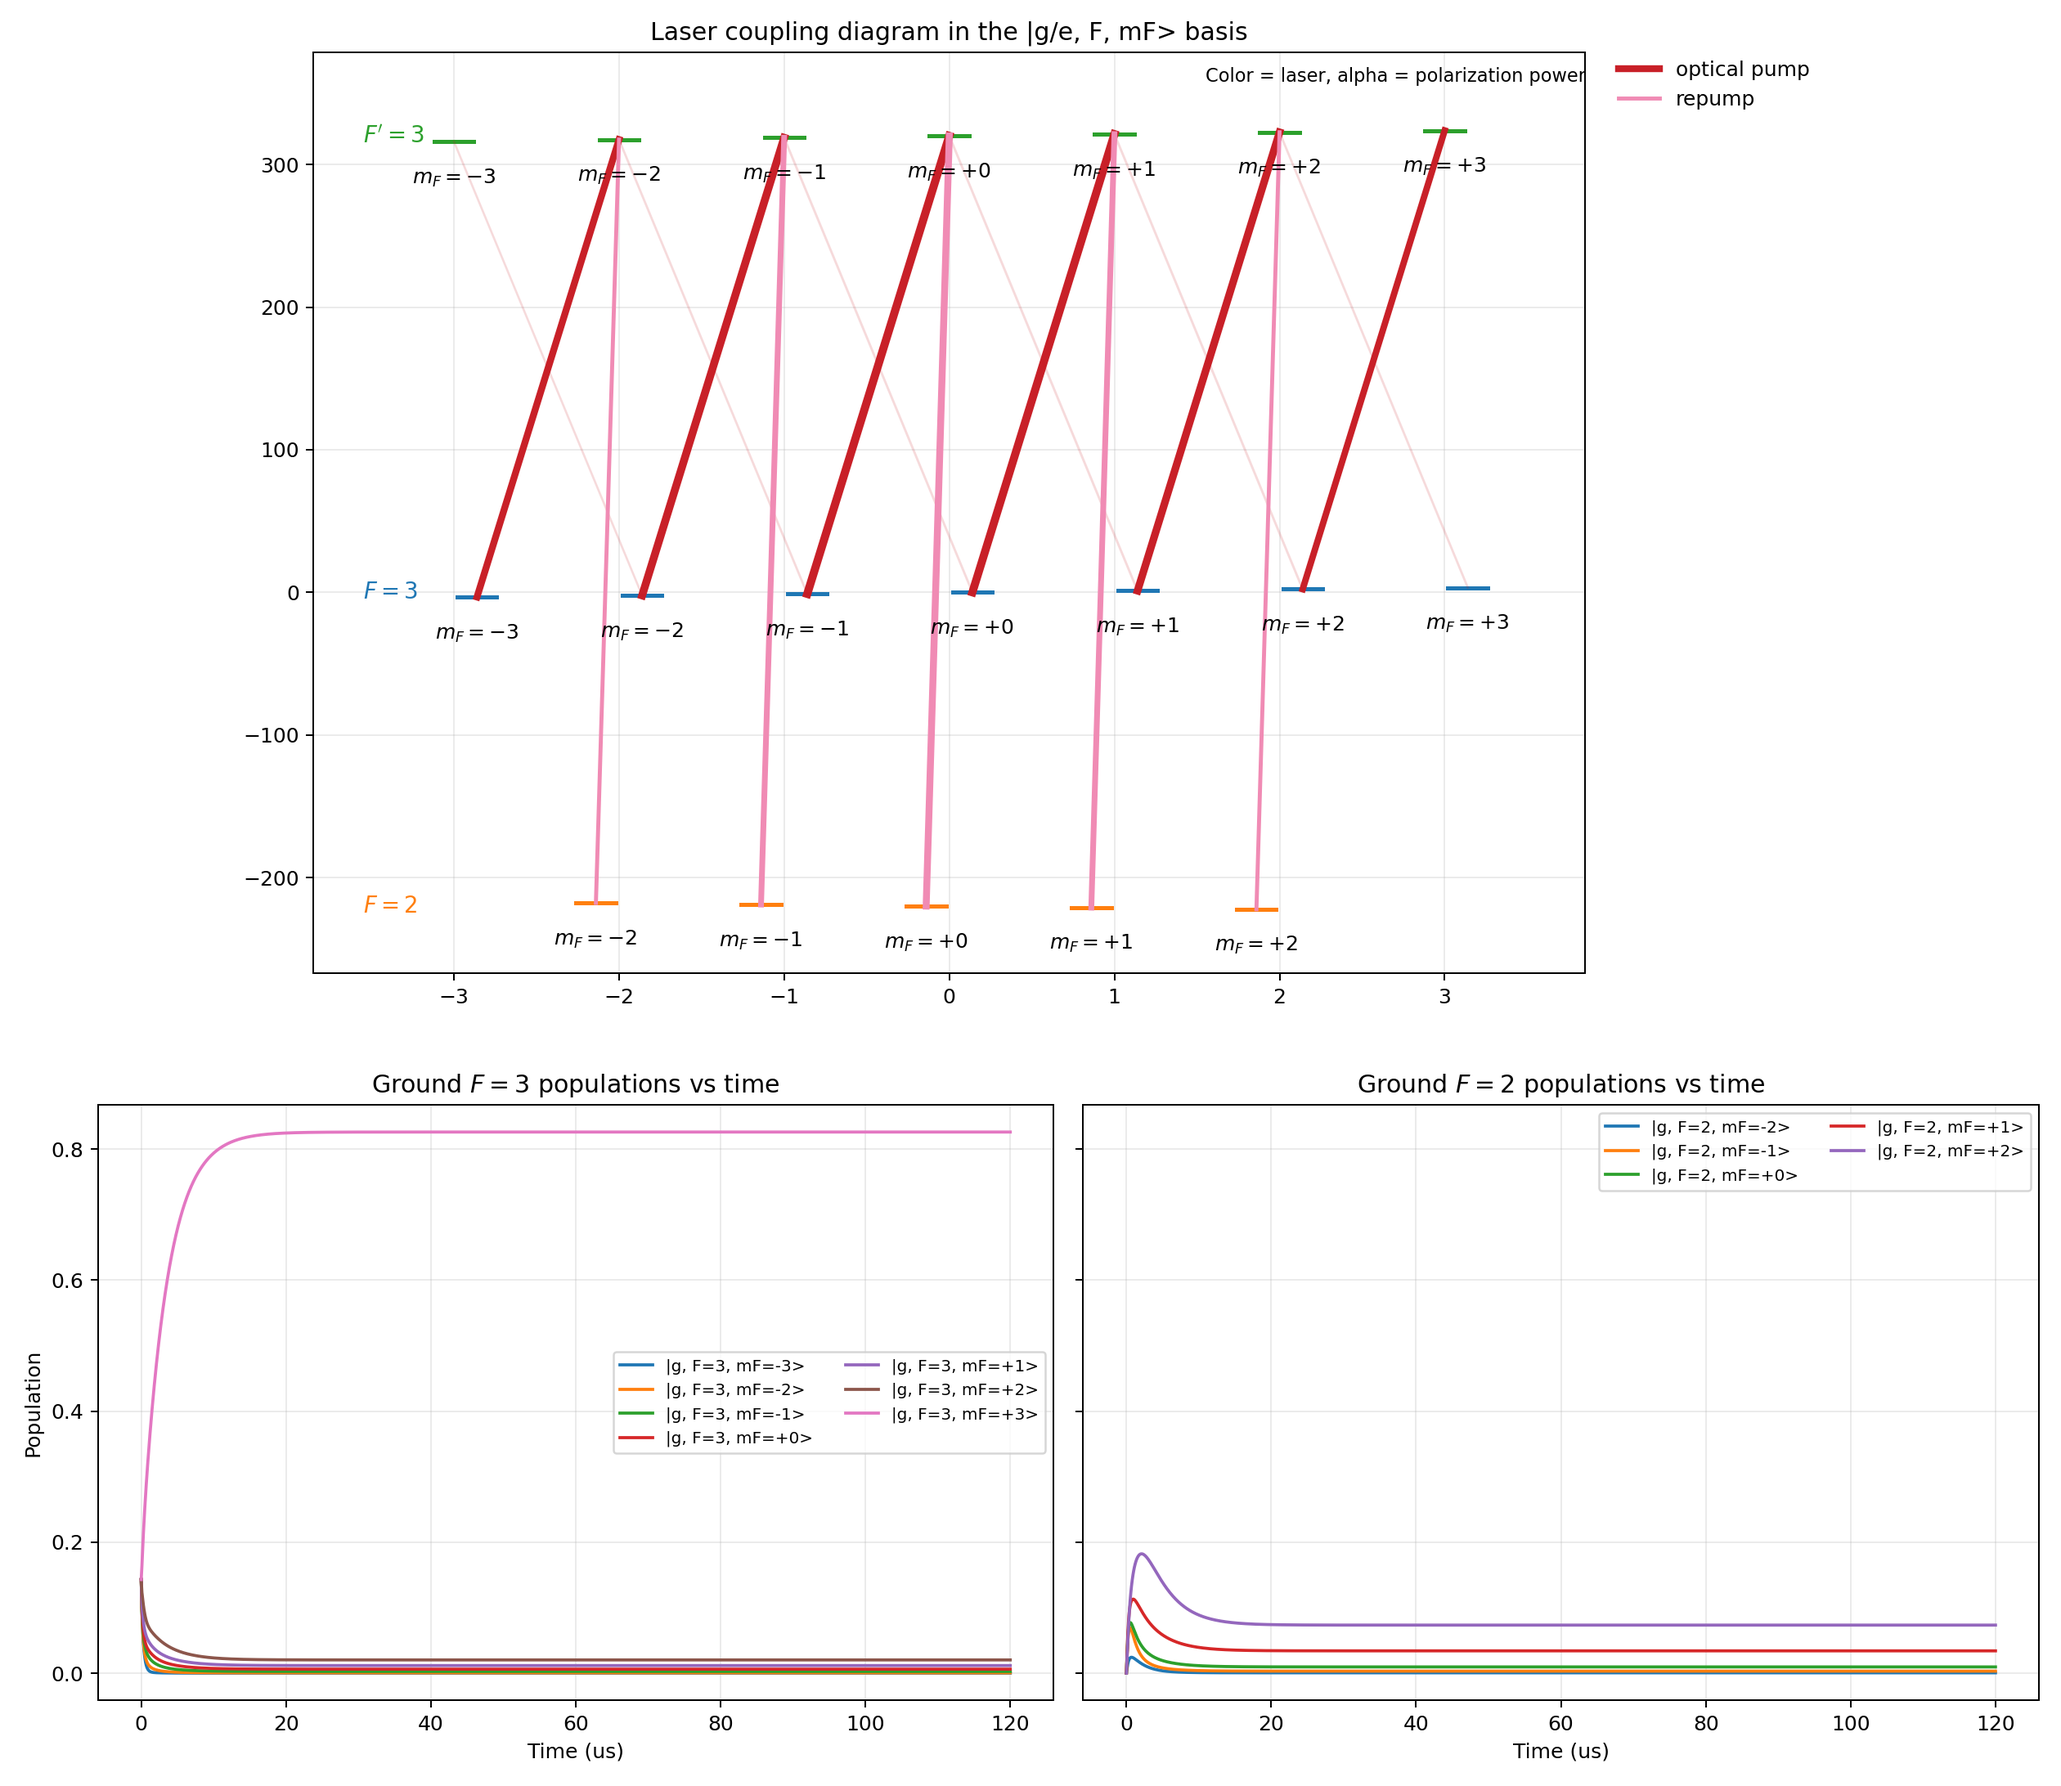
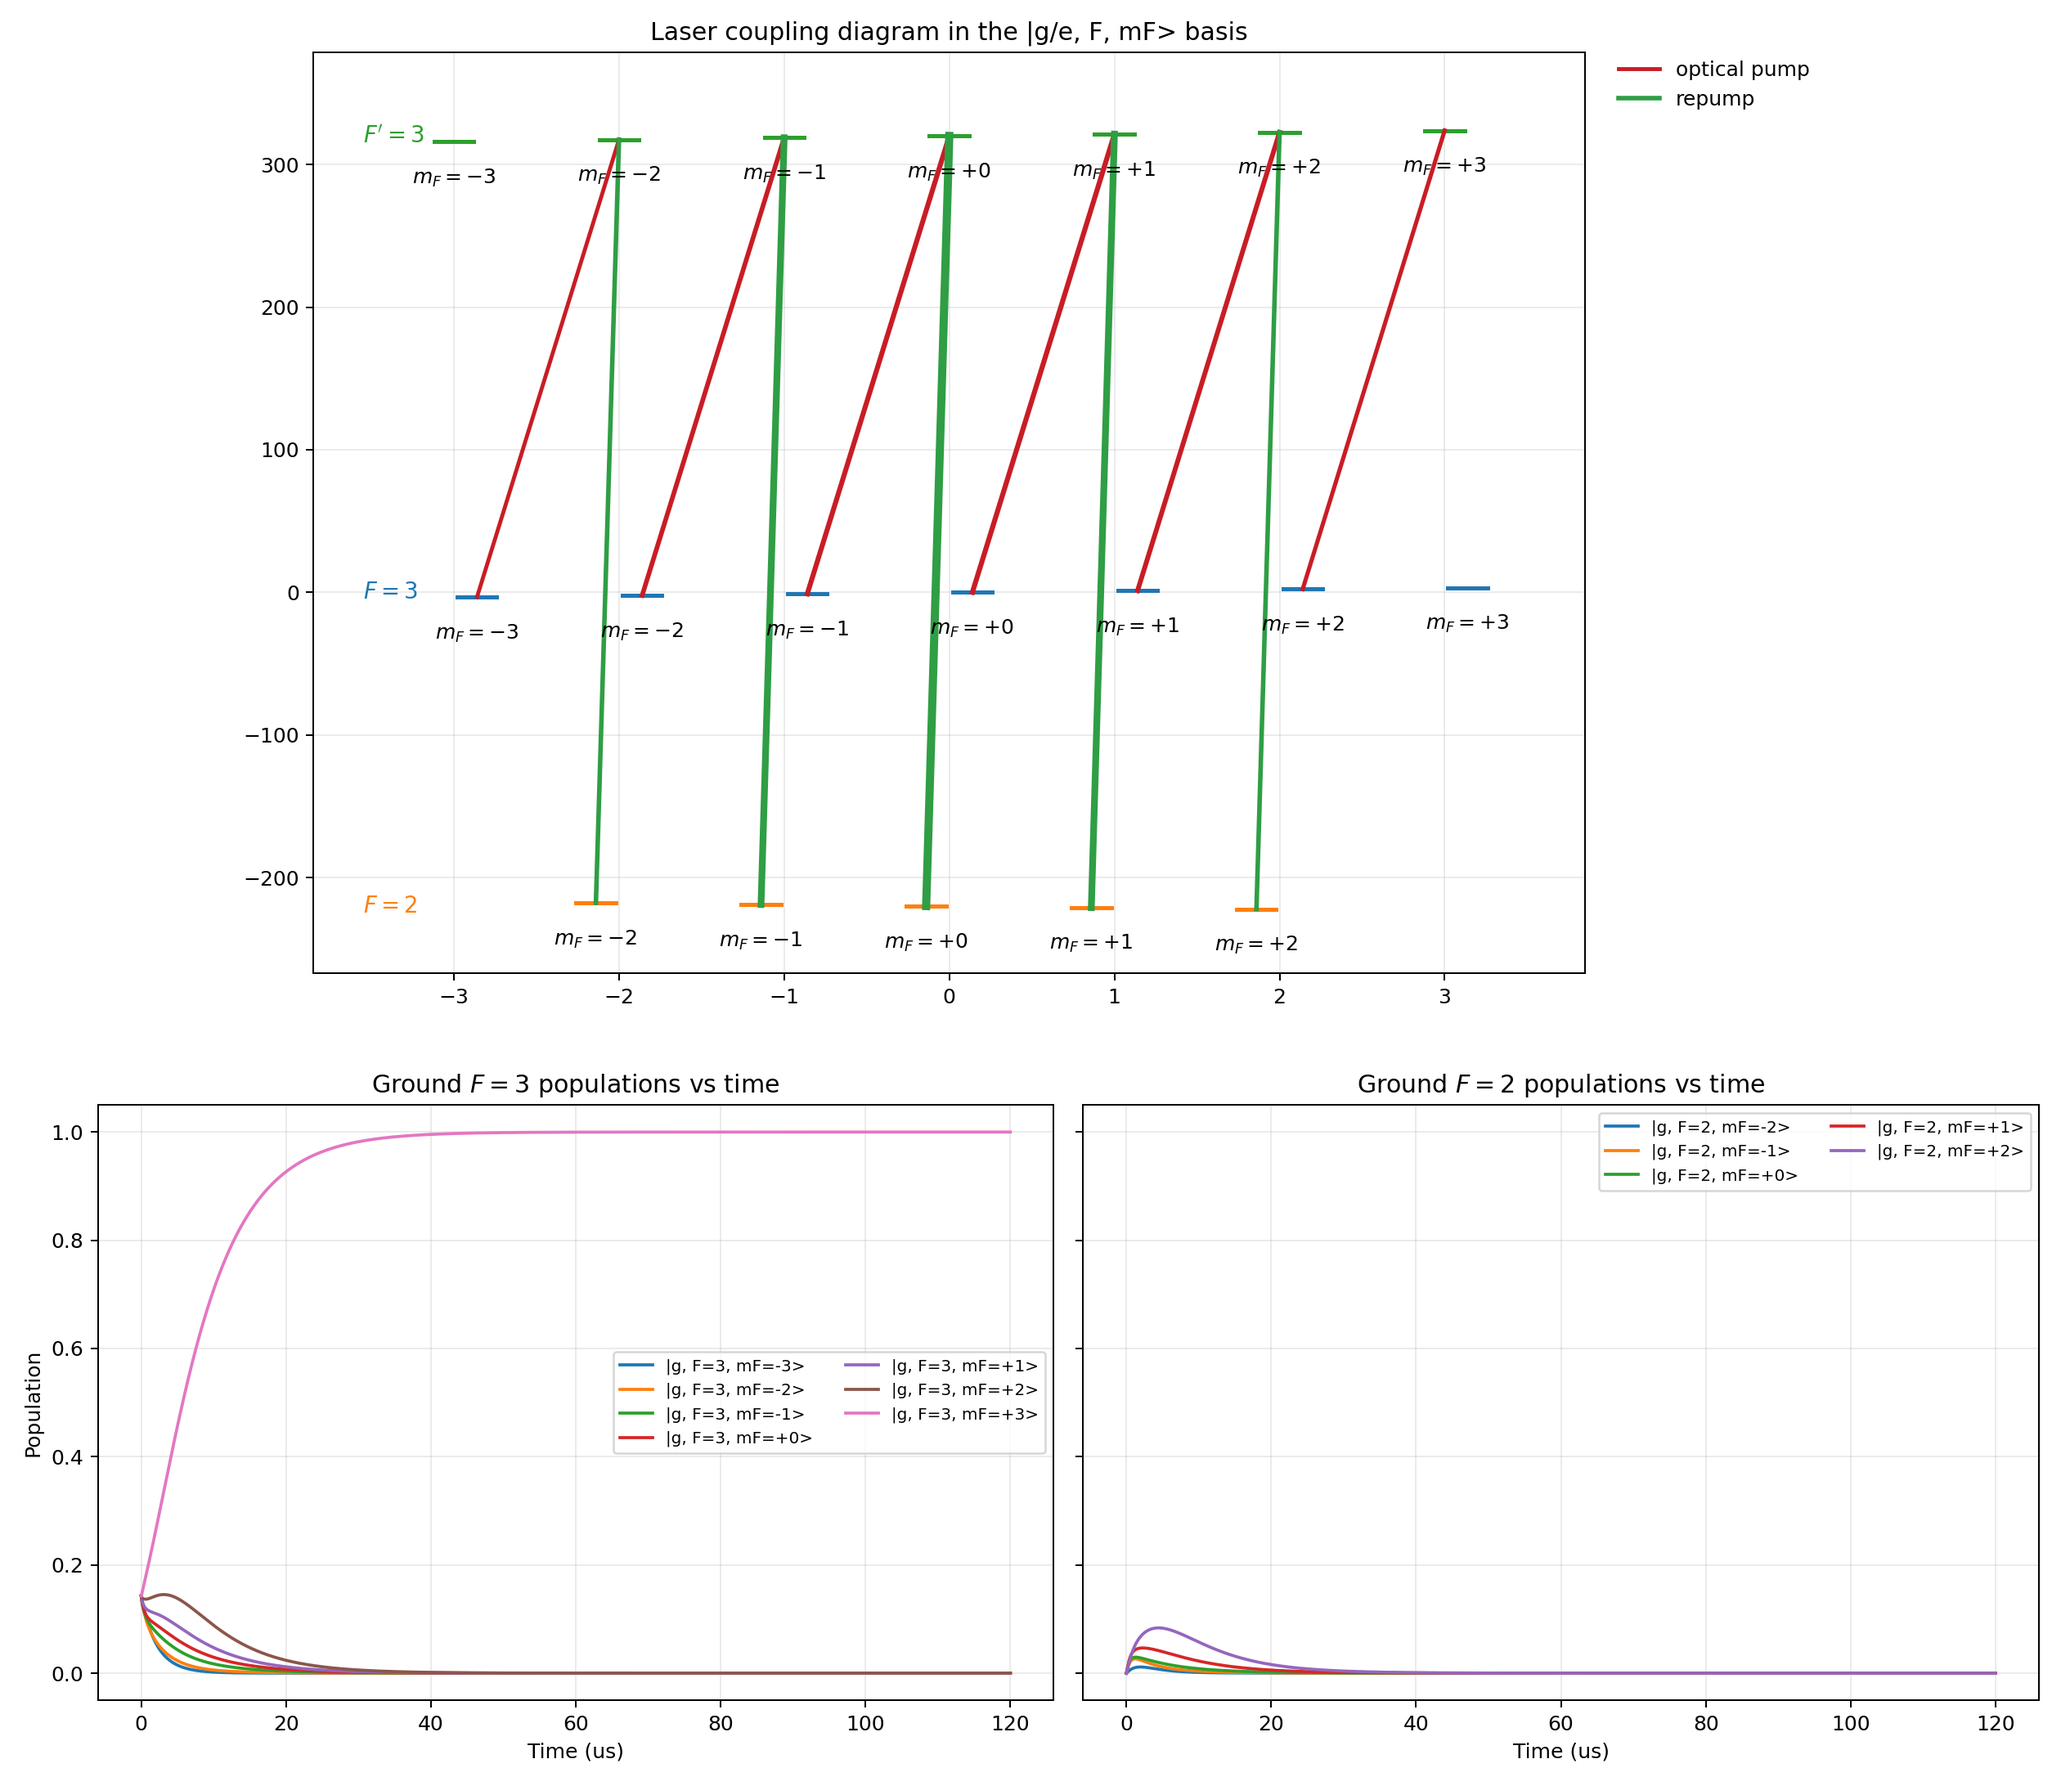
working good

diff --git a/rate-calcs.py b/rate-calcs.py
@@ -17,6 +17,8 @@ CPT, EIT, and other interference effects are not captured here.
 
 from __future__ import annotations
 
+import io
+from contextlib import redirect_stdout
 from dataclasses import dataclass
 from functools import lru_cache
 from typing import Dict, Iterable, List, Sequence, Tuple
@@ -36,10 +38,10 @@ MHz = 2.0 * np.pi * 1.0e6  # angular frequency units
 Gauss = 1.0e-4  # Tesla
 
 SIMULATION_CONFIG = {
-    "detuning_op": 0.0 * MHz,
+    "detuning_op": 0 * MHz,
     "detuning_rp": 0.0 * MHz,
     "intensity_op": 1.0,
-    "intensity_rp": 0.5,
+    "intensity_rp": 1.0,
     "B_field": 2.35 * Gauss,
     "total_time": 120.0e-6,
     "num_time_points": 1200,
@@ -50,15 +52,16 @@ SIMULATION_CONFIG = {
     "show_plots": False,
     "save_plots": True,
     "output_filename": "output.png",
+    "detailed_output_filename": "detailed_output.md",
 }
 
 # Polarization amplitudes may be real or complex. The code uses |epsilon_q|^2
 # and normalizes the three components so the listed laser intensity is the total
 # intensity for that beam.
 OPTICAL_PUMP_POLARIZATION = {
-    "epsilon_plus": 0.9 + 0.0j,
+    "epsilon_plus": 1 + 0.0j,
     "epsilon_pi": 0.0 + 0.0j,
-    "epsilon_minus": 0.1 + 0.0j,
+    "epsilon_minus": 0.0 + 0.0j,
 }
 
 REPUMP_POLARIZATION = {
@@ -574,6 +577,34 @@ def describe_transition_network(states: Sequence[State], absorption_channels: Se
         )
 
 
+def write_detailed_output(
+    filename: str,
+    states: Sequence[State],
+    lasers: Sequence[Laser],
+    gF_map: Dict[Tuple[str, int], float],
+    config: Dict[str, float],
+    branching_sums: Dict[int, float],
+    excitation_out_rates: Dict[int, float],
+    absorption_channels: Sequence[Channel],
+    solution: solve_ivp,
+) -> None:
+    """Write the detailed textual diagnostics to a markdown file."""
+    buffer = io.StringIO()
+    with redirect_stdout(buffer):
+        print_configuration_summary(lasers, gF_map, config)
+        print_branching_checks(states, branching_sums)
+        print_dark_states(states, excitation_out_rates)
+        describe_transition_network(states, absorption_channels)
+        print_population_conservation(solution.t, solution.y, config["population_drift_warning"])
+        print_final_populations(states, solution.y[:, -1])
+
+    with open(filename, "w", encoding="utf-8") as handle:
+        handle.write("# Detailed Output\n\n")
+        handle.write("```text\n")
+        handle.write(buffer.getvalue().lstrip("\n"))
+        handle.write("\n```\n")
+
+
 def plot_level_structure(
     states: Sequence[State],
     absorption_channels: Sequence[Channel],
@@ -583,7 +614,7 @@ def plot_level_structure(
     """Draw a level-structure diagram with x as mF and y as energy."""
     laser_colors = {
         "optical_pump": "#c81d25",
-        "repump": "#f08bb4",
+        "repump": "#2f9e44",
     }
     B_field = config["B_field"]
     manifold_offsets_mhz = {
@@ -654,7 +685,6 @@ def plot_level_structure(
     ax.text(-3.55, manifold_offsets_mhz[("g", 2)], r"$F=2$", color=manifold_colors[("g", 2)], fontsize=11, va="center")
     ax.text(-3.55, manifold_offsets_mhz[("g", 3)], r"$F=3$", color=manifold_colors[("g", 3)], fontsize=11, va="center")
     ax.text(-3.55, manifold_offsets_mhz[("e", 3)], r"$F'=3$", color=manifold_colors[("e", 3)], fontsize=11, va="center")
-    ax.text(1.55, manifold_offsets_mhz[("e", 3)] + 38.0, "Color = laser, alpha = polarization power", fontsize=9)
 
     plt.tight_layout()
 
@@ -776,12 +806,17 @@ def main() -> None:
     rate_matrix = build_rate_matrix(states, absorption_channels, decay_channels)
     solution = solve_populations(rate_matrix, initial, config["total_time"], config["num_time_points"])
 
-    print_configuration_summary(lasers, gF_map, config)
-    print_branching_checks(states, branching_sums)
-    print_dark_states(states, excitation_out_rates)
-    describe_transition_network(states, absorption_channels)
-    print_population_conservation(solution.t, solution.y, config["population_drift_warning"])
-    print_final_populations(states, solution.y[:, -1])
+    write_detailed_output(
+        filename=config["detailed_output_filename"],
+        states=states,
+        lasers=lasers,
+        gF_map=gF_map,
+        config=config,
+        branching_sums=branching_sums,
+        excitation_out_rates=excitation_out_rates,
+        absorption_channels=absorption_channels,
+        solution=solution,
+    )
 
     plot_level_structure(states, absorption_channels, gF_map, config)
     plot_population_dynamics(states, solution, config)
@@ -798,7 +833,9 @@ def main() -> None:
 
     if config["save_plots"]:
         save_open_figures_as_single_png(config["output_filename"])
-        print(f"\nSaved plots to {config['output_filename']}")
+        print(f"Saved plots to {config['output_filename']}")
+
+    print(f"Saved detailed report to {config['detailed_output_filename']}")
 
     if config["show_plots"]:
         if "agg" in plt.get_backend().lower():

diff --git a/detailed_output.md b/detailed_output.md
@@ -1,0 +1,87 @@
+# Detailed Output
+
+```text
+=== Configuration Summary ===
+Gamma / (2 pi)                  =  6.065000 MHz
+Optical-pump detuning / (2 pi)  =  10.000000 MHz
+Repump detuning / (2 pi)        =  0.000000 MHz
+B field                         =  2.350000 G
+Saturation intensity scale      = 1 (arbitrary units)
+Include sat broadening          = True
+gF(F=3, ground)                 =  0.33396755
+gF(F=2, ground)                 = -0.33337788
+gF(F'=3, excited)               =  0.38993384
+
+Laser: optical_pump
+  addressed manifold           = F=3 -> F'=3
+  intensity                    = 1 (same units as I_sat)
+  sigma+ power fraction        = 1.000000
+  pi power fraction            = 0.000000
+  sigma- power fraction        = 0.000000
+
+Laser: repump
+  addressed manifold           = F=2 -> F'=3
+  intensity                    = 0.5 (same units as I_sat)
+  sigma+ power fraction        = 0.000000
+  pi power fraction            = 1.000000
+  sigma- power fraction        = 0.000000
+
+=== Branching-Ratio Sanity Check ===
+|e, F=3, mF=-3>: sum(branching ratios) = 1.000000000000
+|e, F=3, mF=-2>: sum(branching ratios) = 1.000000000000
+|e, F=3, mF=-1>: sum(branching ratios) = 1.000000000000
+|e, F=3, mF=+0>: sum(branching ratios) = 1.000000000000
+|e, F=3, mF=+1>: sum(branching ratios) = 1.000000000000
+|e, F=3, mF=+2>: sum(branching ratios) = 1.000000000000
+|e, F=3, mF=+3>: sum(branching ratios) = 1.000000000000
+Maximum branching-ratio normalization error = 0.000e+00
+
+=== Dark / Unaddressed Ground States ===
+|g, F=3, mF=+3>: zero excitation rate in this rate model
+
+=== Laser-Driven Transition Network ===
+optical_pump: |g, F=3, mF=-3> -> |e, F=3, mF=-2>  sigma+  rate =  5.587516e+05 s^-1  Delta/(2pi) =  9.269701 MHz
+optical_pump: |g, F=3, mF=-2> -> |e, F=3, mF=-1>  sigma+  rate =  9.453659e+05 s^-1  Delta/(2pi) =  9.085621 MHz
+optical_pump: |g, F=3, mF=-1> -> |e, F=3, mF=+0>  sigma+  rate =  1.162784e+06 s^-1  Delta/(2pi) =  8.901541 MHz
+optical_pump: |g, F=3, mF=+0> -> |e, F=3, mF=+1>  sigma+  rate =  1.204254e+06 s^-1  Delta/(2pi) =  8.717462 MHz
+optical_pump: |g, F=3, mF=+1> -> |e, F=3, mF=+2>  sigma+  rate =  1.051332e+06 s^-1  Delta/(2pi) =  8.533382 MHz
+optical_pump: |g, F=3, mF=+2> -> |e, F=3, mF=+3>  sigma+  rate =  6.695479e+05 s^-1  Delta/(2pi) =  8.349302 MHz
+repump: |g, F=2, mF=-2> -> |e, F=3, mF=-2>  pi  rate =  8.751768e+05 s^-1  Delta/(2pi) =  4.758115 MHz
+repump: |g, F=2, mF=-1> -> |e, F=3, mF=-1>  pi  rate =  2.699590e+06 s^-1  Delta/(2pi) =  2.379057 MHz
+repump: |g, F=2, mF=+0> -> |e, F=3, mF=+0>  pi  rate =  4.397021e+06 s^-1  Delta/(2pi) =  0.000000 MHz
+repump: |g, F=2, mF=+1> -> |e, F=3, mF=+1>  pi  rate =  2.699590e+06 s^-1  Delta/(2pi) = -2.379057 MHz
+repump: |g, F=2, mF=+2> -> |e, F=3, mF=+2>  pi  rate =  8.751768e+05 s^-1  Delta/(2pi) = -4.758115 MHz
+
+=== Population-Conservation Check ===
+Initial total population       = 1.000000000000
+Final total population         = 1.000000000000
+Maximum |sum(p)-1| over time   = 6.661e-16
+
+=== Final Populations ===
+|g, F=3, mF=-3>: 0.0000000000
+|g, F=3, mF=-2>: 0.0000000006
+|g, F=3, mF=-1>: 0.0000000026
+|g, F=3, mF=+0>: 0.0000000051
+|g, F=3, mF=+1>: 0.0000000087
+|g, F=3, mF=+2>: 0.0000000178
+|g, F=3, mF=+3>: 0.9999999454
+|g, F=2, mF=-2>: 0.0000000001
+|g, F=2, mF=-1>: 0.0000000005
+|g, F=2, mF=+0>: 0.0000000014
+|g, F=2, mF=+1>: 0.0000000042
+|g, F=2, mF=+2>: 0.0000000119
+|e, F=3, mF=-3>: 0.0000000000
+|e, F=3, mF=-2>: 0.0000000000
+|e, F=3, mF=-1>: 0.0000000001
+|e, F=3, mF=+0>: 0.0000000002
+|e, F=3, mF=+1>: 0.0000000005
+|e, F=3, mF=+2>: 0.0000000005
+|e, F=3, mF=+3>: 0.0000000003
+
+=== Final Manifold Totals ===
+Total F=3 ground   = 0.9999999802
+Total F=2 ground   = 0.0000000182
+Total excited      = 0.0000000016
+Grand total        = 1.0000000000
+
+```
